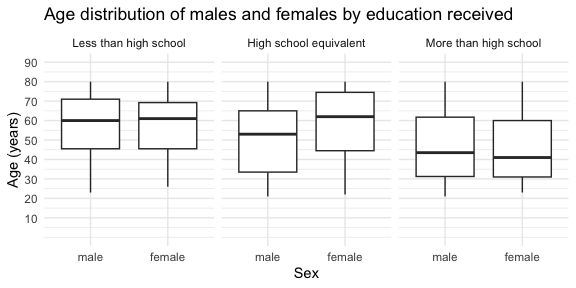
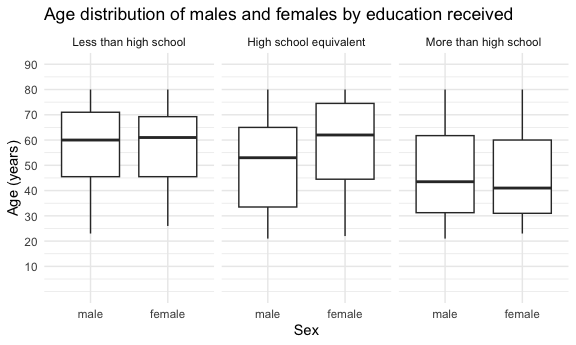
adjusting clarity again

diff --git a/p8105_hw3_sdc2157.md b/p8105_hw3_sdc2157.md
@@ -79,7 +79,7 @@ aisle_items |>
   theme(axis.text.x = element_text(angle=45, vjust=1, hjust=1))
 ```
 
-<img src="p8105_hw3_sdc2157_files/figure-gfm/aisle plot-1.png" width="90%" />
+<img src="p8105_hw3_sdc2157_files/figure-gfm/aisle plot-1.png" width="80%" />
 
 Following the top 3 aisles, yogurt, packaged cheese, and walter seltzer
 sparkling water were the most popular aisles.
@@ -255,7 +255,7 @@ brfss_clean |>
     ## `summarise()` has grouped output by 'state'. You can override using the
     ## `.groups` argument.
 
-<img src="p8105_hw3_sdc2157_files/figure-gfm/excellent responses plot-1.png" width="90%" />
+<img src="p8105_hw3_sdc2157_files/figure-gfm/excellent responses plot-1.png" width="80%" />
 
 The figure above shows the average data value for excellent responses
 across the 50 states and Washington, D.C. from 2002 to 2010. The
@@ -275,7 +275,7 @@ brfss_clean |>
     caption = "*Responses relate to the Overall Health topic")
 ```
 
-<img src="p8105_hw3_sdc2157_files/figure-gfm/ny data values plot-1.png" width="90%" />
+<img src="p8105_hw3_sdc2157_files/figure-gfm/ny data values plot-1.png" width="80%" />
 
 The figure above compares the distributions of data values for responses
 “Poor” to “Excellent” among counties in NY state during 2006 to those
@@ -349,7 +349,7 @@ combined_accel |>
   facet_grid(. ~ education)
 ```
 
-<img src="p8105_hw3_sdc2157_files/figure-gfm/education sex age plot-1.png" width="90%" />
+<img src="p8105_hw3_sdc2157_files/figure-gfm/education sex age plot-1.png" width="80%" />
 
 The figure above shows the age distribuion of males and females by
 education received. Among those who received less than a high school
@@ -376,7 +376,7 @@ combined_accel |>
 
     ## `geom_smooth()` using method = 'loess' and formula = 'y ~ x'
 
-<img src="p8105_hw3_sdc2157_files/figure-gfm/total activity plot-1.png" width="90%" />
+<img src="p8105_hw3_sdc2157_files/figure-gfm/total activity plot-1.png" width="80%" />
 
 The figure above shows total MIMS activity across age for males and
 females. Among those who received the equivalent of a high school
@@ -410,7 +410,7 @@ combined_accel |>
 
     ## `geom_smooth()` using method = 'gam' and formula = 'y ~ s(x, bs = "cs")'
 
-<img src="p8105_hw3_sdc2157_files/figure-gfm/mims over time plot-1.png" width="90%" />
+<img src="p8105_hw3_sdc2157_files/figure-gfm/mims over time plot-1.png" width="80%" />
 
 The figure above shows the MIMS for males and females over a 24 hr
 period by education received. The 24 hr time period started at midnight.
